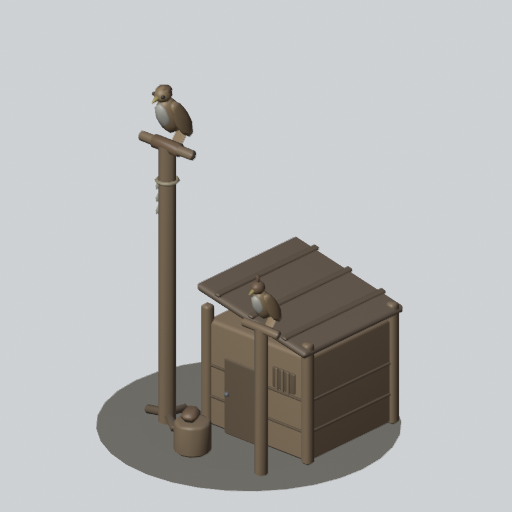
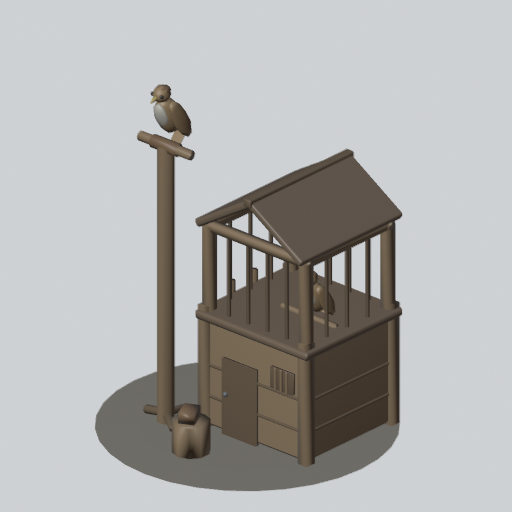
art: Falcon Roost (FALCON) bolder upgrades - S1 barred aviary loft with a second falcon, S2 spread-wing crown falcon, brass trim, glowing lantern (#443)

diff --git a/tools/art/models/tower/_falcon.py b/tools/art/models/tower/_falcon.py
@@ -4,13 +4,15 @@ Roblox studs; front = -Z (_kit conventions). The roost can't be damaged.
 
 Stage 0 (tiers 0-2): the mews (plank walls, sloped shingle roof, a door), the perch pole with
                      a padded crossbar and the falcon, a leather glove on a stump.
-Stage 1 (tier 3):    a second, lower perch with a hooded falcon, a feather pennant on the
-                     tall pole, a ladder against the mews, a feeding block.
-Stage 2 (tier 5):    brass bells on the falcons, brass caps on the perches, a brass weather
-                     vane on the roof, a glowing lantern on the mews.
+Stage 1 (tier 3):    a BIGGER AVIARY - a barred aviary loft built on top of the mews with its
+                     own gable roof and a second falcon inside, a ladder up to it.
+Stage 2 (tier 5):    the tall perch is crowned by a big falcon with its wings spread wide
+                     (gold-tipped), a brass hoop round it, brass caps, bells and a weather vane,
+                     and a big glowing lantern hung in the aviary's gable.
 """
 
 import importlib.util
+import math
 from pathlib import Path
 
 _spec = importlib.util.spec_from_file_location("_kit", Path(__file__).with_name("_kit.py"))
@@ -55,61 +57,113 @@ def falcon(k, at, scale=1.0, hooded=False, stage=0):
         k.add("brass", *[K.ell((x + sx * 0.08 * s, y + 0.05 * s, z - 0.06 * s), (0.04 * s, 0.04 * s, 0.04 * s), 6, 4) for sx in (-1, 1)])
 
 
+def spread_falcon(k, at, s=1.0):
+    """A falcon on the perch with its wings spread wide (the stage-2 crown), feet on `at`."""
+    x, y, z = at
+    k.add("body", K.ell((x, y + 0.4 * s, z), (0.19 * s, 0.36 * s, 0.19 * s), 8, 5, rot=(-12, 0, 0)))
+    k.add("cream", K.ell((x, y + 0.42 * s, z - 0.11 * s), (0.14 * s, 0.26 * s, 0.09 * s), 8, 5, rot=(-12, 0, 0)))
+    head = (x, y + 0.86 * s, z - 0.06 * s)
+    k.add("body", K.ell(head, (0.14 * s, 0.14 * s, 0.15 * s), 8, 6))
+    k.add("leather", K.ell((head[0], head[1] + 0.06 * s, head[2] + 0.02 * s), (0.13 * s, 0.08 * s, 0.13 * s), 8, 4))
+    k.add("beak", K.rod((x, head[1] - 0.02 * s, head[2] - 0.13 * s), (x, head[1] - 0.07 * s, head[2] - 0.25 * s), 0.045 * s, 6, top=0.2))
+    k.add("eye", *[K.ell((x + sx * 0.09 * s, head[1] + 0.01 * s, head[2] - 0.1 * s), (0.035 * s,) * 3, 6, 4) for sx in (-1, 1)])
+    k.add("body", K.rbox((x, y + 0.08 * s, z + 0.3 * s), (0.2 * s, 0.05 * s, 0.4 * s), bevel=0, rot=(-40, 0, 0), taper=(1.6, 1.0)))
+    for sx in (-1, 1):  # two wing panels per side, raised in a wide shallow V, gold-tipped
+        sh = (x + sx * 0.12 * s, y + 0.62 * s, z + 0.05 * s)  # shoulder
+        a1, a2, l1, l2 = 6, 22, 0.64 * s, 0.5 * s
+        d1 = (math.cos(math.radians(a1)), math.sin(math.radians(a1)))
+        d2 = (math.cos(math.radians(a2)), math.sin(math.radians(a2)))
+        c1 = (sh[0] + sx * d1[0] * l1 / 2, sh[1] + d1[1] * l1 / 2, sh[2])
+        e1 = (sh[0] + sx * d1[0] * l1, sh[1] + d1[1] * l1, sh[2])
+        c2 = (e1[0] + sx * d2[0] * l2 / 2, e1[1] + d2[1] * l2 / 2, sh[2] + 0.03 * s)
+        e2 = (e1[0] + sx * d2[0] * l2, e1[1] + d2[1] * l2, sh[2] + 0.03 * s)
+        k.add("body", K.rbox(c1, (l1 + 0.06 * s, 0.08 * s, 0.5 * s), bevel=0, rot=(0, 0, sx * a1), taper=(1.0, 0.85)))
+        k.add("cream", K.rbox((c1[0], c1[1] - 0.05 * s, c1[2] - 0.04 * s), (l1, 0.03 * s, 0.38 * s), bevel=0, rot=(0, 0, sx * a1)))
+        k.add("body", K.rbox(c2, (l2 + 0.04 * s, 0.07 * s, 0.42 * s), bevel=0, rot=(0, 0, sx * a2), taper=(0.75, 0.7)))
+        k.add("brass", K.rbox((e2[0] + sx * 0.07 * s, e2[1] + 0.06 * s, e2[2]), (0.22 * s, 0.06 * s, 0.32 * s), bevel=0,
+                              rot=(0, 0, sx * 48), taper=(0.4, 0.5)))
+
+
 def build(lp, stage):
     k = K.Kit(lp)
+    # stage 2 moves the tall perch toward the middle and lowers it a little: room for the spread wings
+    px, ph = (PX, PH) if stage < 2 else (0.27, 3.62)
 
     # the mews: a plank box with corner posts, a sloped shingle roof falling to the left
     k.add("plank", K.rbox((MX, MH / 2, MZ), (MW, MH, MD), bevel=0.06))
     k.add("dark", *[K.rbox((MX, y, MZ), (MW + 0.04, 0.04, MD + 0.04), bevel=0.01) for y in (0.45, 0.9)])  # plank seams
-    posts = [K.rbox((MX + sx * (MW / 2 - 0.02), (MH + 0.2) / 2, MZ + sz * (MD / 2 - 0.02)), (0.16, MH + 0.2, 0.16), bevel=0.04)
+    posts = [K.rbox((MX + sx * (MW / 2 - 0.02), (MH + 0.2) / 2, MZ + sz * (MD / 2 - 0.02)), (0.16, MH + 0.2, 0.16), bevel=0.04 if stage == 0 else 0)
              for sx in (-1, 1) for sz in (-1, 1)]
     k.add("wood", *posts)
-    k.add("roof", K.rbox((MX, MH + 0.28, MZ), (MW + 0.18, 0.14, MD + 0.25), bevel=0.05, rot=(0, 0, 12)))
-    k.add("dark", *[K.rbox((MX + u * 0.98, MH + 0.28 + u * 0.21 + 0.07, MZ), (0.1, 0.06, MD + 0.27), bevel=0.02, rot=(0, 0, 12))
-                    for u in (-0.6, 0.0, 0.6)])  # shingle battens
+    if stage == 0:
+        k.add("roof", K.rbox((MX, MH + 0.28, MZ), (MW + 0.18, 0.14, MD + 0.25), bevel=0.05, rot=(0, 0, 12)))
+        k.add("dark", *[K.rbox((MX + u * 0.98, MH + 0.28 + u * 0.21 + 0.07, MZ), (0.1, 0.06, MD + 0.27), bevel=0.02, rot=(0, 0, 12))
+                        for u in (-0.6, 0.0, 0.6)])  # shingle battens
+    else:  # the aviary loft: a floor, corner posts, bars on every side, a gable roof (ridge front-back)
+        fy, ly = MH + 0.06, MH + 1.35  # loft floor / eaves
+        k.add("roof", K.rbox((MX, fy, MZ), (MW + 0.2, 0.14, MD + 0.2), bevel=0.04))
+        lw, ld = MW - 0.1, MD - 0.1
+        k.add("wood", *[K.rbox((MX + sx * lw / 2, (fy + ly) / 2, MZ + sz * ld / 2), (0.14, ly - fy, 0.14), bevel=0)
+                        for sx in (-1, 1) for sz in (-1, 1)])
+        k.add("wood", *[K.rbox((MX, ly, MZ + sz * ld / 2), (lw + 0.14, 0.12, 0.12), bevel=0) for sz in (-1, 1)],
+              *[K.rbox((MX + sx * lw / 2, ly, MZ), (0.12, 0.12, ld), bevel=0) for sx in (-1, 1)])
+        bars = []
+        for i in range(1, 5):  # front and back bars
+            bx = MX - lw / 2 + i * lw / 5
+            bars += [K.rbox((bx, (fy + ly) / 2, MZ + sz * ld / 2), (0.04, ly - fy, 0.04), bevel=0) for sz in (-1, 1)]
+        for i in range(1, 4):  # side bars
+            bz = MZ - ld / 2 + i * ld / 4
+            bars += [K.rbox((MX + sx * lw / 2, (fy + ly) / 2, bz), (0.04, ly - fy, 0.04), bevel=0) for sx in (-1, 1)]
+        k.add("dark", *bars)
+        # gable roof: two slopes meeting in a ridge that runs front to back
+        half = MW / 2
+        for sx in (-1, 1):
+            k.add("roof", K.rbox((MX + sx * half / 2, ly + 0.36, MZ), (half / math.cos(math.radians(32)) + 0.08, 0.12, MD + 0.3),
+                                 bevel=0.03, rot=(0, 0, -sx * 32)))
+        k.add("brass" if stage >= 2 else "dark", K.rbox((MX, ly + 0.66, MZ), (0.16, 0.14, MD + 0.34), bevel=0))  # ridge beam
+        falcon(k, (MX - 0.35, fy + 0.07, MZ - 0.1), 0.85)  # a falcon in the aviary
+        k.add("wood", K.rod((MX - 0.75, fy + 0.07, MZ - 0.1), (MX + 0.2, fy + 0.07, MZ - 0.1), 0.05, 6))
     # door and a small barred window on the front
     fz = MZ - MD / 2
-    k.add("dark", K.rbox((MX + 0.25, 0.55, fz - 0.02), (0.6, 1.1, 0.06), bevel=0.03),
-          K.rbox((MX - 0.5, 1.1, fz - 0.02), (0.4, 0.3, 0.05), bevel=0.02))
+    lean = 0 if stage else 1
+    k.add("dark", K.rbox((MX + 0.25, 0.55, fz - 0.02), (0.6, 1.1, 0.06), bevel=0.03 * lean),
+          K.rbox((MX - 0.5, 1.1, fz - 0.02), (0.4, 0.3, 0.05), bevel=0.02 * lean))
     k.add("wood", *[K.rbox((MX - 0.5 + dx, 1.1, fz - 0.05), (0.04, 0.32, 0.04), bevel=0.01) for dx in (-0.1, 0.0, 0.1)])
     k.add("metal", K.ell((MX + 0.47, 0.6, fz - 0.06), (0.04, 0.04, 0.04), 6, 4))  # door knob
 
     # the tall perch: pole, padded crossbar, the falcon; a stump with a glove beside it
-    k.add("wood", K.rod((PX, 0, PZ), (PX, PH, PZ), 0.12, 10), K.rod((PX - 0.45, PH, PZ), (PX + 0.45, PH, PZ), 0.07, 8))
-    k.add("leather", K.rod((PX - 0.22, PH, PZ), (PX + 0.22, PH, PZ), 0.095, 8))  # padded grip
-    k.add("dark", *[K.rod((PX, 0.12, PZ), (PX + dx, 0.06, PZ + dz), 0.06, 6) for dx, dz in ((0.35, 0.0), (-0.3, -0.2), (0.0, 0.35))])  # pole feet
-    falcon(k, (PX, PH + 0.08, PZ), 1.0, stage=stage)
-    k.add("wood", K.cyl((0.0, 0.22, -1.1), 0.26, 0.44, 10, bevel=0.04))
-    k.add("leather", K.rbox((0.03, 0.52, -1.1), (0.22, 0.16, 0.3), bevel=0.06, rot=(0, 25, 0)))
+    k.add("wood", K.rod((px, 0, PZ), (px, ph, PZ), 0.12, 10), K.rod((px - 0.45, ph, PZ), (px + 0.45, ph, PZ), 0.07, 8))
+    k.add("leather", K.rod((px - 0.22, ph, PZ), (px + 0.22, ph, PZ), 0.095, 8))  # padded grip
+    k.add("dark", *[K.rod((px, 0.12, PZ), (px + dx, 0.06, PZ + dz), 0.06, 6) for dx, dz in ((0.35, 0.0), (-0.3, -0.2), (0.0, 0.35))])  # pole feet
+    if stage >= 2:
+        spread_falcon(k, (px, ph + 0.08, PZ), 0.86)
+    else:
+        falcon(k, (px, ph + 0.08, PZ), 1.0, stage=stage)
+    k.add("wood", K.cyl((0.0, 0.22, -1.1), 0.26, 0.44, 10, bevel=0.04 if stage == 0 else 0))
+    k.add("leather", K.rbox((0.03, 0.52, -1.1), (0.22, 0.16, 0.3), bevel=0.06 if stage == 0 else 0, rot=(0, 25, 0)))
 
     brass = []
     if stage >= 1:
-        # a lower perch on the left with a hooded falcon
-        lx, lz, lh = -1.12, -1.0, 2.1
-        k.add("wood", K.rod((lx, 0, lz), (lx, lh, lz), 0.09, 8), K.rod((lx - 0.3, lh, lz), (lx + 0.3, lh, lz), 0.06, 8))
-        falcon(k, (lx, lh + 0.06, lz), 0.8, hooded=True, stage=stage)
-        # a pennant of feathers on the tall pole
-        k.add("cream", *[K.ell((PX + 0.14, PH - 0.6 - i * 0.18, PZ), (0.04, 0.12, 0.03), 6, 3, rot=(0, 0, 25)) for i in range(3)])
-        k.add("rope", K.ring((PX, PH - 0.5, PZ), 0.14, 0.03, 10, 4))
-        # a ladder against the mews' right wall, a feeding block
+        # a ladder against the mews' right wall, up to the aviary
         rx = MX + MW / 2 + 0.08
-        k.add("wood", *[K.rod((rx, 0, MZ + dz), (rx, MH + 0.1, MZ + dz), 0.04, 6) for dz in (-0.22, 0.22)],
-              *[K.rod((rx, y, MZ - 0.22), (rx, y, MZ + 0.22), 0.03, 6) for y in (0.35, 0.75, 1.15)])
-        k.add("plank", K.rbox((0.35, 0.18, -0.15), (0.4, 0.36, 0.4), bevel=0.05))
-        k.add("meat", K.ell((0.35, 0.4, -0.15), (0.13, 0.08, 0.1), 8, 4))
+        k.add("wood", *[K.rod((rx, 0, MZ + dz), (rx, MH + 0.3, MZ + dz), 0.05, 6) for dz in (-0.22, 0.22)],
+              *[K.rod((rx, y, MZ - 0.22), (rx, y, MZ + 0.22), 0.035, 6) for y in (0.35, 0.75, 1.15, 1.55)])
 
     if stage >= 2:
-        brass += [K.cyl((PX + sx * 0.47, PH, PZ), 0.09, 0.1, 8, rot=(0, 0, 90)) for sx in (-1, 1)]  # perch caps
-        brass.append(K.cyl((PX, 0.15, PZ), 0.17, 0.12, 10))  # pole collar
-        # weather vane on the roof ridge
-        vx = MX
-        brass += [K.rod((vx, MH + 0.45, MZ), (vx, MH + 1.1, MZ), 0.03, 6),
-                  K.rod((vx, MH + 0.95, MZ - 0.3), (vx, MH + 0.95, MZ + 0.3), 0.025, 6),
-                  K.rbox((vx, MH + 0.95, MZ - 0.32), (0.04, 0.16, 0.12), bevel=0.01)]
-        # a lantern on a bracket off the mews' front-left post
-        lx, lz = MX - 0.55, MZ - MD / 2 - 0.16
-        brass += [K.rod((lx, 1.45, lz + 0.16), (lx, 1.45, lz), 0.025, 6), K.cyl((lx, 1.42, lz), 0.09, 0.05, 8)]
-        k.add("glow", K.ell((lx, 1.28, lz), (0.09, 0.12, 0.09), 8, 5))
+        brass += [K.cyl((px + sx * 0.47, ph, PZ), 0.09, 0.1, 8, bevel=0, rot=(0, 0, 90)) for sx in (-1, 1)]  # perch caps
+        brass.append(K.cyl((px, 0.15, PZ), 0.17, 0.12, 10, bevel=0))  # pole collar
+        # a brass hoop round the crown falcon's perch, a weather vane on the aviary ridge
+        brass.append(K.ring((px, ph - 0.25, PZ), 0.3, 0.05, 12, 4))
+        vy = MH + 1.35 + 0.72
+        brass += [K.rod((MX, vy, MZ + 0.4), (MX, vy + 0.75, MZ + 0.4), 0.035, 6),
+                  K.rod((MX - 0.3, vy + 0.55, MZ + 0.4), (MX + 0.3, vy + 0.55, MZ + 0.4), 0.03, 6),
+                  K.rbox((MX + 0.32, vy + 0.55, MZ + 0.4), (0.14, 0.18, 0.04), bevel=0.01, taper=(0.3, 1.0))]
+        brass += [K.rbox((MX, MH + 1.35, MZ + sz * (MD - 0.1) / 2), (MW + 0.1, 0.06, 0.16), bevel=0) for sz in (-1, 1)]  # brass eaves
+        # a big lantern hung in the aviary's front gable
+        lz = MZ - MD / 2 - 0.12
+        brass += [K.rod((MX, MH + 1.75, lz + 0.1), (MX, MH + 1.58, lz), 0.03, 6), K.cyl((MX, MH + 1.55, lz), 0.17, 0.07, 8, bevel=0),
+                  K.cyl((MX, MH + 1.05, lz), 0.19, 0.06, 8, bevel=0)]
+        k.add("glow", K.cyl((MX, MH + 1.3, lz), 0.15, 0.44, 8, bevel=0.03))
         k.add("brass", *brass)
 
     colors = {
